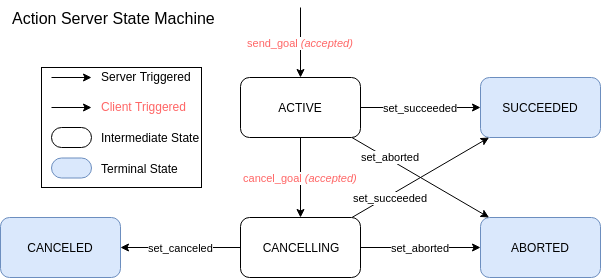
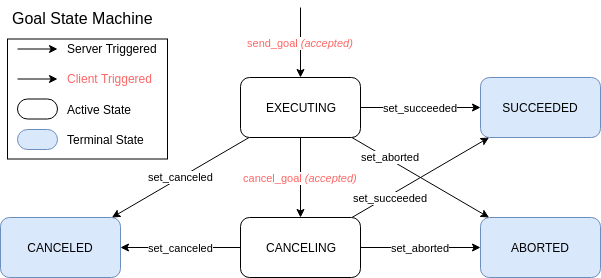
Update goal state machine
Rename ACTIVE -> EXECUTING and intermediate states to 'active' states.
Also added a transition from EXECUTING to CANCELED.

diff --git a/articles/actions.md b/articles/actions.md
@@ -219,10 +219,11 @@ If the ROS 2 action client never calls the service to get the result then it is 
 The action server is responsible for accepting (or rejecting) goals requested by clients.
 The action server is also responsible for maintaining a separate state for each accepted goal.
 
-There are two intermediate states:
+There are two active states:
 
-- **ACTIVE** - The goal has been accepted and is currently being processed by the action server.
+- **EXECUTING** - The goal has been accepted and is currently being executed by the action server.
 - **CANCELING** - The client has requested that the goal be canceled and the action server has accepted the cancel request.
+This state is useful for any "clean up" that the action server may have to do.
 
 And three terminal states:
 
@@ -241,7 +242,8 @@ State transitions triggered by the action client:
 - **send_goal** - A goal is sent to the action server.
 The state machine is only started if the action server *accepts* the goal.
 - **cancel_goal** - Request that the action server stop processing the goal.
-This transition only occurs if the action server *accepts* the request to cancel the goal.
+A transition only occurs if the action server *accepts* the request to cancel the goal.
+The goal may transition to CANCELING or CANCELED depending on the action server implementation.
 
 ## API
 
